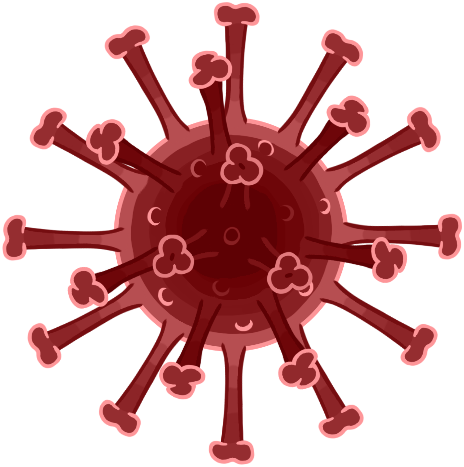
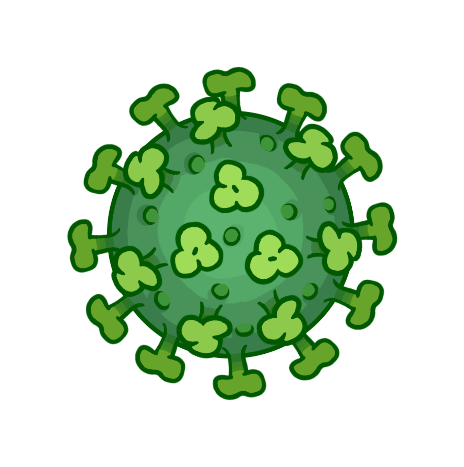
adiciona levels e corrige bugs

diff --git a/main.py b/main.py
@@ -16,7 +16,9 @@ white = (255, 255, 255)
 # Sprites
 
 pills = pygame.image.load('assets\images\pills.png')
-bg = pygame.image.load('assets\images\papap.jpg')
+bgForest = pygame.image.load('assets\images\pforest.jpg')
+bgForest2 = pygame.image.load('assets\images\pforest2.png')
+bgDesert = pygame.image.load('assets\images\pdesert.png')
 water1shoot = pygame.image.load('assets\images\pwater.png')
 
 
@@ -24,16 +26,46 @@ walkRight = [pygame.image.load('assets\images\psurvivor.png'), pygame.image.load
     'assets\images\psurvivorRun.png'), pygame.image.load('assets\images\psurvivorRun2.png'), pygame.image.load('assets\images\psurvivor.png'), pygame.image.load(
     'assets\images\psurvivorRun.png'), pygame.image.load('assets\images\psurvivorRun2.png'), pygame.image.load('assets\images\psurvivor.png'), pygame.image.load(
     'assets\images\psurvivorRun.png'), pygame.image.load('assets\images\psurvivorRun2.png')]
+
+walkLeft = [pygame.image.load('assets\images\psurvivorleft.png'), pygame.image.load(
+    'assets\images\psurvivorRunleft.png'), pygame.image.load('assets\images\psurvivorRun2left.png'), pygame.image.load('assets\images\psurvivorleft.png'), pygame.image.load(
+    'assets\images\psurvivorRunleft.png'), pygame.image.load('assets\images\psurvivorRun2left.png'), pygame.image.load('assets\images\psurvivorleft.png'), pygame.image.load(
+    'assets\images\psurvivorRunleft.png'), pygame.image.load('assets\images\psurvivorRun2left.png')]
 survivorStanding = pygame.image.load(
     'assets\images\psurvivorStanding.png')
 survivorJumping = pygame.image.load('assets\images\pjump.png')
 
+# Weak surivs
 surivMove = pygame.image.load('assets\images\corona2.png')
 surivStanding = pygame.image.load('assets\images\corona1.png')
 redSuriv1 = pygame.transform.scale(surivStanding, (50, 50))
 redSuriv2 = pygame.transform.scale(surivMove, (50, 50))
 surivMoving = [redSuriv1, redSuriv2, redSuriv1, redSuriv2,
                redSuriv1, redSuriv2, redSuriv1, redSuriv2, redSuriv1]
+
+# Medium surivs
+
+surivMove2 = pygame.image.load('assets\images\corona4.png')
+surivStanding2 = pygame.image.load('assets\images\corona5.png')
+surivStanding22 = pygame.image.load('assets\images\corona6.png')
+greenSuriv1 = pygame.transform.scale(surivStanding2, (50, 50))
+greenSuriv2 = pygame.transform.scale(surivMove2, (50, 50))
+greenSuriv3 = pygame.transform.scale(surivStanding22, (50, 50))
+surivMoving2 = [greenSuriv1, greenSuriv2, greenSuriv3, greenSuriv1,
+                greenSuriv2, greenSuriv3, greenSuriv1, greenSuriv2, greenSuriv3]
+
+# Strong surivs
+
+surivMove3 = pygame.image.load('assets\images\corona7.png')
+surivStanding3 = pygame.image.load('assets\images\corona8.png')
+surivStanding33 = pygame.image.load('assets\images\corona9.png')
+blueSuriv1 = pygame.transform.scale(surivStanding3, (50, 50))
+blueSuriv2 = pygame.transform.scale(surivMove3, (50, 50))
+blueSuriv3 = pygame.transform.scale(surivStanding33, (50, 50))
+surivMoving3 = [blueSuriv1, blueSuriv2, blueSuriv3, blueSuriv1,
+                blueSuriv2, blueSuriv3, blueSuriv1, blueSuriv2, blueSuriv3]
+
+
 # Screen
 display_width = 800
 display_height = 600
@@ -41,13 +73,10 @@ screen = pygame.display.set_mode((display_width, display_height))
 clock = pygame.time.Clock()
 font = pygame.font.SysFont("comicsans", 30, True)
 score = 0
-items_spawn_time = [1000, 20, 30]
-global_time = pygame.time.get_ticks()
-dt = clock.tick()
 
 
 class suriv(object):
-    def __init__(self, x, y, width, height, end):
+    def __init__(self, x, y, width, height, end, health):
         self.x = x
         self.y = y
         self.width = width
@@ -57,7 +86,7 @@ class suriv(object):
         self.vel = 3
         self.path = [x + 20, end + 20]
         self.hitbox = [self.x, self.y, 50, 50]
-        self.health = 1
+        self.health = health
         self.visible = True
 
     def draw(self, screen):
@@ -65,16 +94,38 @@ class suriv(object):
         if self.visible:
             if self.walkCount + 1 >= 27:
                 self.walkCount = 0
-            if self.vel > 0:
-                screen.blit(surivMoving[self.walkCount // 3], (self.x, self.y))
-                self.walkCount += 1
-            else:
-                screen.blit(surivMoving[self.walkCount // 3], (self.x, self.y))
-                self.walkCount += 1
+            if score < 5:
+                if self.vel > 0:
+                    screen.blit(
+                        surivMoving[self.walkCount // 3], (self.x, self.y))
+                    self.walkCount += 1
+                else:
+                    screen.blit(
+                        surivMoving[self.walkCount // 3], (self.x, self.y))
+                    self.walkCount += 1
+            if score >= 5 and score < 10:
+                if self.vel > 0:
+                    screen.blit(
+                        surivMoving2[self.walkCount // 3], (self.x, self.y))
+                    self.walkCount += 1
+                else:
+                    screen.blit(
+                        surivMoving2[self.walkCount // 3], (self.x, self.y))
+                    self.walkCount += 1
+            if score >= 10:
+                if self.vel > 0:
+                    screen.blit(
+                        surivMoving3[self.walkCount // 3], (self.x, self.y))
+                    self.walkCount += 1
+                else:
+                    screen.blit(
+                        surivMoving3[self.walkCount // 3], (self.x, self.y))
+                    self.walkCount += 1
+
             pygame.draw.rect(
                 screen, (255, 0, 0), (self.hitbox[0], self.hitbox[1] - 5, 30, 10))
             pygame.draw.rect(
-                screen, (0, 128, 0), (self.hitbox[0], self.hitbox[1] - 5, 30 - (3 * (1 - self.health)), 10))
+                screen, (0, 128, 0), (self.hitbox[0], self.hitbox[1] - 5, 30 - (3 * (3 - self.health)), 10))
             self.hitbox = (self.x, self.y, 31, 57)
 
     def move(self):
@@ -93,8 +144,8 @@ class suriv(object):
                 self.x += self.vel
                 self.walkCount = 0
 
-    def hit(self, ):
-        if self.health >= 0:
+    def hit(self):
+        if self.health > 0:
             self.health -= 1
         else:
             self.visible = False
@@ -106,10 +157,10 @@ class item(object):
         self.y = y
         self.width = width
         self.height = height
-        #self.image = image
+        # self.image = image
 
     def draw(self, screen):
-        screen.blit(pills, (self.x, self.y))
+        screen.blit(pills, (self.x + 200, self.y + 200))
 
 
 class player(object):
@@ -136,7 +187,7 @@ class player(object):
             screen.blit(survivorJumping, (self.x, self.y))
         elif not(self.standing):
             if self.left:
-                screen.blit(walkRight[self.walkCount//3], (self.x, self.y))
+                screen.blit(walkLeft[self.walkCount//3], (self.x, self.y))
                 self.walkCount += 1
             elif self.right:
                 screen.blit(walkRight[self.walkCount//3], (self.x, self.y))
@@ -165,7 +216,7 @@ class projectile(object):
         self.y = y
         self.facing = facing
         self.vel = 8 * facing
-        self.hitbox = [self.x, self.y, 50, 50]
+        self.hitbox = [self.x, self.y, 10, 10]
 
     def draw(self, screen):
         screen.blit(water1shoot, (self.x, self.y))
@@ -193,29 +244,59 @@ def redrawWindow():
     pygame.display.update()
 
 
+def changeBackgroung(bg, bgX):
+    rel_x = bgX % bg.get_rect().width
+    screen.blit(bg, (rel_x - bg.get_rect().width, 0))
+    if rel_x < display_width:
+        screen.blit(bg, (rel_x, 0))
+
+
 survivor = player(40, 300, 64, 64)
 weakSurivs = []
+mediumSurivs = []
+strongSurivs = []
 maxEnemies = 5
+
 for enemy in range(maxEnemies):
     weakSurivs.append(suriv(random.randint(0, display_width), random.randint(
-        100, 300), 64, 64, 800))
+        100, 300), 64, 64, 800, 1))
+
+for enemy in range(maxEnemies):
+    mediumSurivs.append(suriv(random.randint(0, display_width), random.randint(
+        100, 300), 64, 64, 800, 2))
+
+for enemy in range(maxEnemies):
+    strongSurivs.append(suriv(random.randint(0, display_width), random.randint(
+        100, 300), 64, 64, 800, 3))
+
 
 bullets = []
 shootLoop = 0
 run = True
 bgX = 0
-pill = item(100, 100, 50, 50)
-global_time += dt
+pill = item(random.randint(0, display_width), random.randint(
+    0, display_height), 50, 50)
 
 while run:
     pygame.time.delay(15)
-    rel_x = bgX % bg.get_rect().width
-    screen.blit(bg, (rel_x - bg.get_rect().width, 0))
-    if rel_x < display_width:
-        screen.blit(bg, (rel_x, 0))
-    bgX -= 1
 
-    if len(weakSurivs) <= 3:
+    if score < 5:
+        changeBackgroung(bgForest, bgX)
+        bgX -= 1
+    if score >= 5 and score < 10:
+        changeBackgroung(bgForest2, bgX)
+        bgX -= 1
+        pygame.time.delay(15)
+        for suriv in mediumSurivs:
+            suriv.draw(screen)
+    if score >= 10:
+        changeBackgroung(bgDesert, bgX)
+        bgX -= 1
+        pygame.time.delay(15)
+        for suriv in strongSurivs:
+            suriv.draw(screen)
+
+    if score >= 3:
         pill.draw(screen)
 
     if shootLoop > 0:
@@ -227,6 +308,13 @@ while run:
         if event.type == QUIT:
             run = False
 
+# First lvl
+
+    for suriv in weakSurivs:
+        collision = isCollision(suriv.x, suriv.y, survivor.x, survivor.y)
+        if collision:
+            survivor.hit()
+
     for suriv in weakSurivs:
         if suriv.x < display_width and suriv.x > 0:
             suriv.x += suriv.vel
@@ -236,15 +324,48 @@ while run:
             collision = isCollision(suriv.x, suriv.y, bullet.x, bullet.y)
             if collision:
                 suriv.hit()
-                score += 1
                 bullets.pop(bullets.index(bullet))
                 weakSurivs.pop(weakSurivs.index(suriv))
+                score += 1
+
+# Second lvl
+
+    for suriv in mediumSurivs:
+        if suriv.x < display_width and suriv.x > 0:
+            suriv.x += suriv.vel
+
+    for bullet in bullets:
+        for suriv in mediumSurivs:
+            collision = isCollision(suriv.x, suriv.y, bullet.x, bullet.y)
+            if collision:
+                suriv.hit()
+                bullets.pop(bullets.index(bullet))
+                mediumSurivs.pop(mediumSurivs.index(suriv))
+                score += 1
+
+
+# Last lvl
+
+    for suriv in strongSurivs:
+        if suriv.x < display_width and suriv.x > 0:
+            suriv.x += suriv.vel
+
+    for bullet in bullets:
+        for suriv in strongSurivs:
+            collision = isCollision(suriv.x, suriv.y, bullet.x, bullet.y)
+            if collision:
+                suriv.hit()
+                bullets.pop(bullets.index(bullet))
+                strongSurivs.pop(strongSurivs.index(suriv))
+                score += 1
 
     for bullet in bullets:
         if bullet.x > display_width or bullet.x < 0:
             bullets.pop(bullets.index(bullet))
         else:
             bullet.x += bullet.vel
+
+    # Game keys
 
     keys = pygame.key.get_pressed()
 
@@ -254,7 +375,7 @@ while run:
         else:
             facing = 1
 
-        if len(bullets) < 10:
+        if len(bullets) < 3:
             bullets.append(projectile(round(
                 survivor.x + survivor.width // 2), round(survivor.y + survivor.height // 3), facing))
         shootLoop = 1
